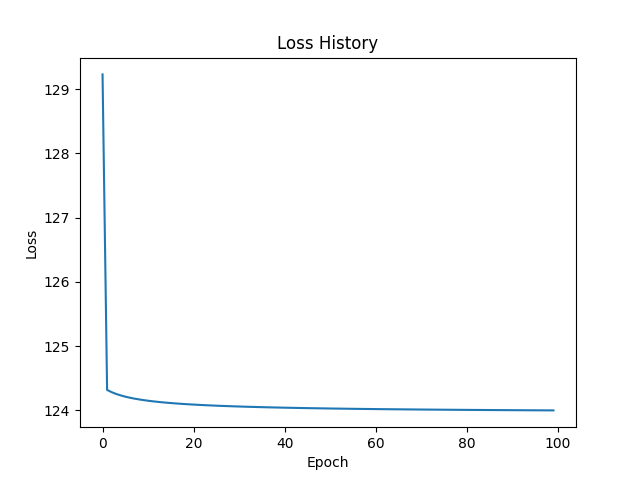
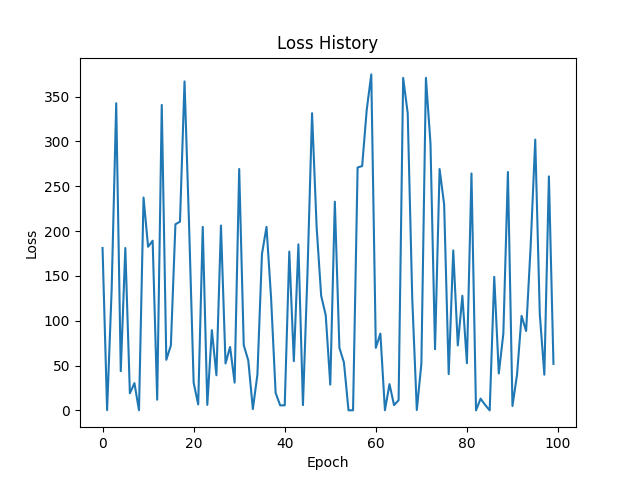
Modification de y_ts en matrice classes*documents

diff --git a/Metrics.py b/Metrics.py
@@ -6,42 +6,60 @@ class Metrics:
     def __init__(self, y_pred, y_true):
         self.y_pred = y_pred
         self.y_true = y_true
+
+        self.y_pred_classes = y_pred.flatten()
+        self.y_true_classes = y_true.flatten()
+
         self.size = len(y_true)
+        self.classes = np.unique(np.concatenate(
+            (self.y_true_classes, self.y_pred_classes)))
+
         self.accuracy = None
         self.mse_loss = None
         self.recall = None
         self.precision = None
 
-        # Defintion des TP,FP,FN,FP
-
-        self.TP = np.sum((self.y_true == 1) & (self.y_pred == 1))
-        self.FP = np.sum((self.y_true == 0) & (y_pred == 1))
-        self.FN = np.sum((self.y_true == 1) & (self.y_pred == 0))
-        self.TN = np.sum((self.y_true == 0) & (self.y_pred == 0))
-
     def accuracy_score(self):
-        self.accuracy = (self.TP + self.TN)/(self.size)
+        correct_prediction = np.sum(self.y_true_classes == self.y_pred_classes)
+        self.accuracy = correct_prediction / self.size
 
     def mse_loss_scores(self):
         self.mse_loss = np.mean((self.y_true - self.y_pred)**2)
 
-    def recall_score(self):
-        self.recall = (self.TP)/(self.TP + self.TN)
+    def precision_recall_scores(self):
+        precisions = []
+        recalls = []
 
-    def precision_score(self):
-        self.precision = self.TP/(self.TP + self.FP)
+        for c in self.classes:
+
+            TP = np.sum((self.y_pred_classes == c) &
+                        (self.y_true_classes == c))
+            FP = np.sum((self.y_pred_classes == c) &
+                        (self.y_true_classes != c))
+            FN = np.sum((self.y_pred_classes != c) &
+                        (self.y_true_classes == c))
+
+            if (TP + FP) == 0:
+                precisions.append(0.0)
+            else:
+                precisions.append(TP/(TP+FP))
+
+            if ((TP+FN) == 0):
+                recalls.append(0.0)
+            else:
+                recalls.append(TP / (TP+FN))
+
+        self.precision = np.mean(precisions)
+        self.recall = np.mean(recalls)
 
     def transform_metrics(self):
         print("----------------------------------------------")
         self.accuracy_score()
-        print(f"Accuracy : {self.accuracy}\n")
+        print(f"Accuracy : {self.accuracy: .4f}\n")
 
         self.mse_loss_scores()
-        print(f"MSE loss : {self.mse_loss}\n")
-
-        self.recall_score()
-        print(f"Recall : {self.recall}\n")
-
-        self.precision_score()
-        print(f"Precision : {self.precision}\n")
+        print(f"MSE loss : {self.mse_loss: .4f}\n")
+        self.precision_recall_scores()
+        print(f"Recall : {self.recall: .4f}\n")
+        print(f"Precision : {self.precision: .4f}\n")
         print("------------------------------------------")

diff --git a/main.py b/main.py
@@ -16,26 +16,26 @@ if __name__ == "__main__":
 
     X_train, y_train, X_test, y_test = d.fit()
     # Calcul de Hessienne
-
+    print(y_train.shape)
     X_train, X_test = d.transform()
-    # Calcul de la valeur propre maximum de H
-    # print("Calcul de la valeur propre de module maximum")
-    # L = puissance(H)
-    # print(f"La valeur propre de module maximum vaut {L}")
+    # # Calcul de la valeur propre maximum de H
+    # # print("Calcul de la valeur propre de module maximum")
+    # # L = puissance(H)
+    # # print(f"La valeur propre de module maximum vaut {L}")
 
     model = Perceptron_GD(
-        input_size=X_train.shape[0], output_size=20, learning_rate=1e-3, n_iters=100)
+        input_size=X_train.shape[0], output_size=20, learning_rate=1, n_iters=100)
     model.fit(X_train, y_train)
 
-    # # Plot the loss history
-    plt.plot(model.loss_history)
-    plt.xlabel("Epoch")
-    plt.ylabel("Loss")
-    plt.title("Loss History")
-    plt.savefig("./results/loss_history.png")
-    print("Loss history saved to loss_history.png")
+    # # # Plot the loss history
+    # plt.plot(model.loss_history)
+    # plt.xlabel("Epoch")
+    # plt.ylabel("Loss")
+    # plt.title("Loss History")
+    # plt.savefig("./results/loss_history.png")
+    # print("Loss history saved to loss_history.png")
 
-    y_pred = model.predict(X_test)
-    metrics = Metrics(y_pred=y_pred, y_true=y_test)
+    # y_pred = model.predict(X_test)
+    # metrics = Metrics(y_pred=y_pred, y_true=y_test)
 
-    metrics.transform_metrics()
+    # metrics.transform_metrics()

diff --git a/Data.py b/Data.py
@@ -1,7 +1,7 @@
 from sklearn.preprocessing import MaxAbsScaler
 import scipy.io
 from sklearn.model_selection import train_test_split
-
+import numpy as np
 from sklearn.preprocessing import StandardScaler
 
 
@@ -14,6 +14,17 @@ class DataPreprocessing:
         self.X = self.data['Xts'].tocsr()
         self.y_ts = self.data['yts']
         self.X_vr = self.data['Xvr'].tocsr()
+
+        self.nbr_documents = len(self.y_ts)
+
+        self.classes = len(np.unique(self.y_ts))
+        print(f"Nombre de documents : {self.nbr_documents}")
+        print(f"Nombre de classes : {self.classes}")
+
+        self.y_one_hot = np.zeros((self.classes, self.nbr_documents))
+        for index, value in enumerate(self.y_ts.flatten()):
+
+            self.y_one_hot[value - 1, index] = 1
         self.seed = seed
         self.X_train = None
         self.y_train = None
@@ -23,7 +34,7 @@ class DataPreprocessing:
     def fit(self):
 
         self.X_train, self.X_test, self.y_train, self.y_test = train_test_split(
-            self.X.T, self.y_ts, test_size=0.2, random_state=self.seed)
+            self.X.T, self.y_one_hot.T, test_size=0.2, random_state=self.seed)
 
         self.X_train = self.X_train.T
         self.X_test = self.X_test.T
@@ -34,6 +45,9 @@ class DataPreprocessing:
         return self.X_train, self.y_train, self.X_test, self.y_test
 
     def transform(self):
+
+        # Définition de la matrice Y
+
         scaler = StandardScaler(with_mean=False)
 
         self.X_train = scaler.fit_transform(self.X_train)

diff --git a/Perceptron.py b/Perceptron.py
@@ -44,13 +44,16 @@ class Perceptron_GD:
 
     def fit(self, X, y_true):
 
-        self.W = np.random.randn(self.input_size, self.output_size)*0.001
-        self.bias = np.zeros((self.output_size, 1))
+        self.W = np.random.randn(self.input_size, self.output_size)
+        self.bias = np.random.randn(self.output_size, 1)
 
         for k in range(self.n_iters):
-            grad_W, grad_B, y_pred = self.oracle(X, y_true)
 
-            loss = self.mse_loss(y_pred, y_true)
+            index = np.random.randint(0, X.shape[1])
+            x, y_tr = X[:, index], y_true[index]
+            grad_W, grad_B, y_pred = self.oracle(x, y_tr)
+
+            loss = self.mse_loss(y_pred, y_tr)
             self.loss_history.append(loss)
 
             self.W = self.W - self.lr * grad_W
